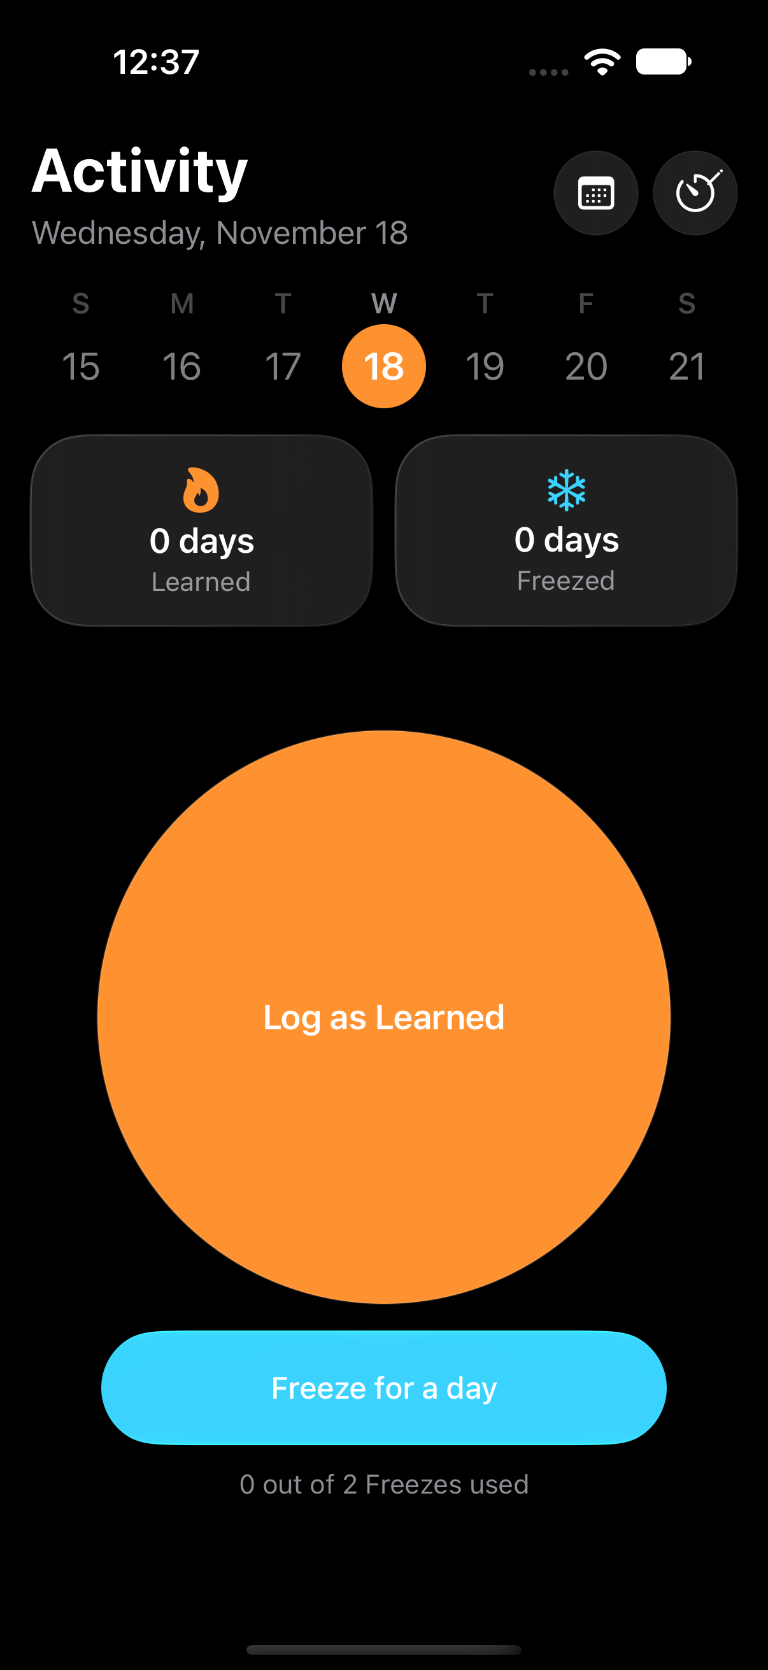
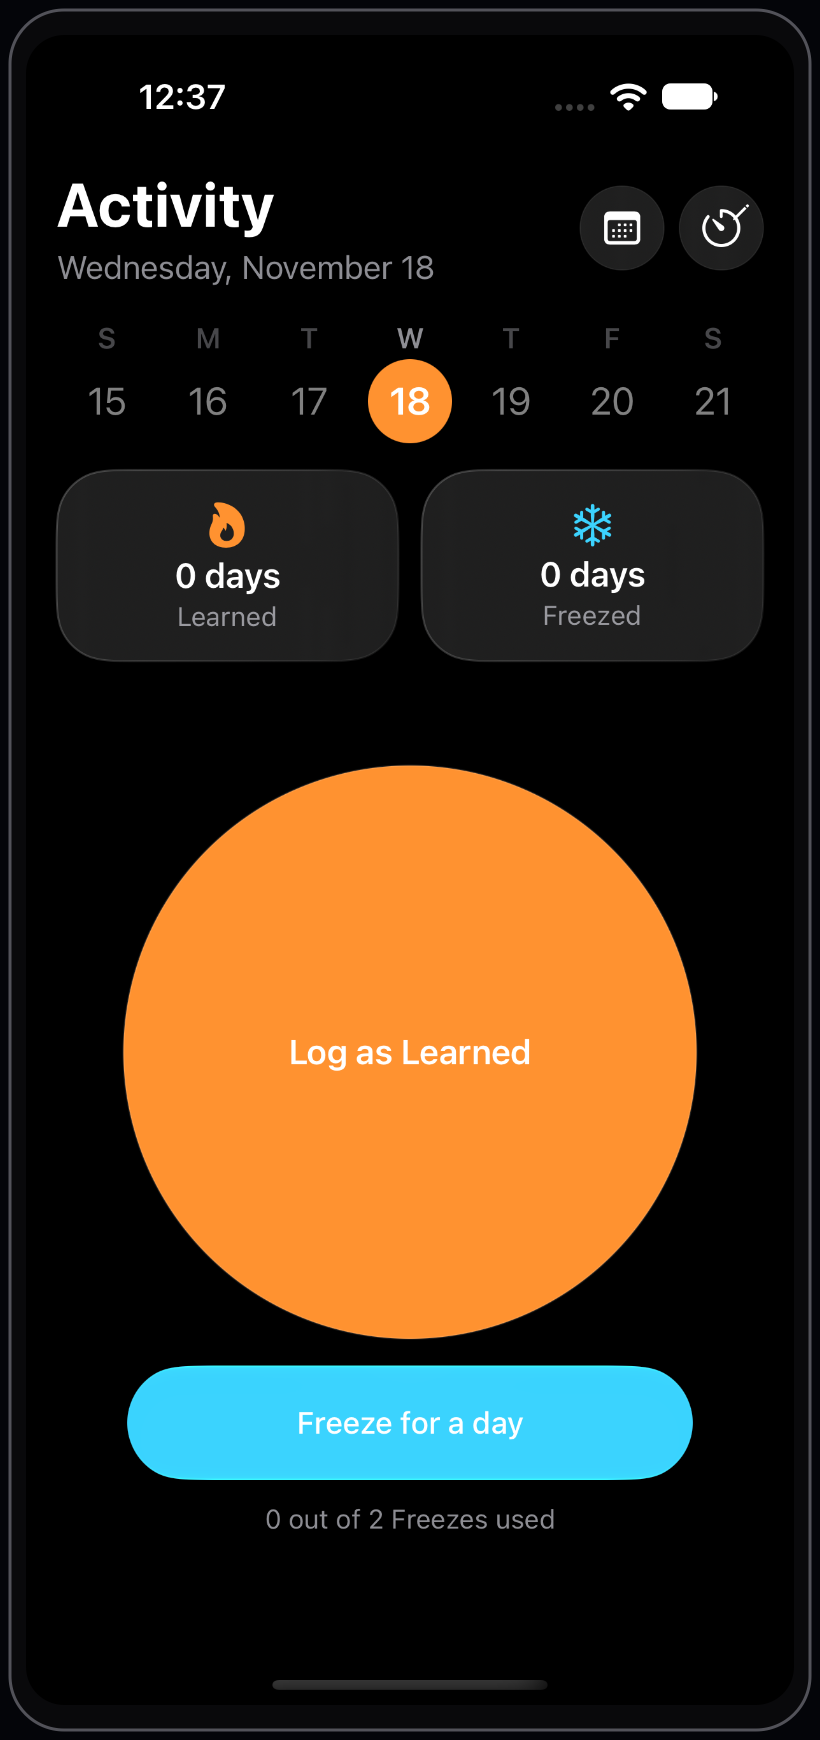
Frame README screenshots in iPhone mockups
Show app screenshots inside iPhone frames and use the app's orange color for the README flame.\n\nCo-authored-by: Copilot <223556219+Copilot@users.noreply.github.com>

diff --git a/README.md b/README.md
@@ -1,7 +1,7 @@
 # LearningApp
 
 <p align="center">
-  <img src="README/assets/navy-flame.svg" alt="LearningApp flame" width="150">
+  <img src="README/assets/orange-flame.svg" alt="LearningApp orange flame" width="150">
 </p>
 
 <p align="center">
